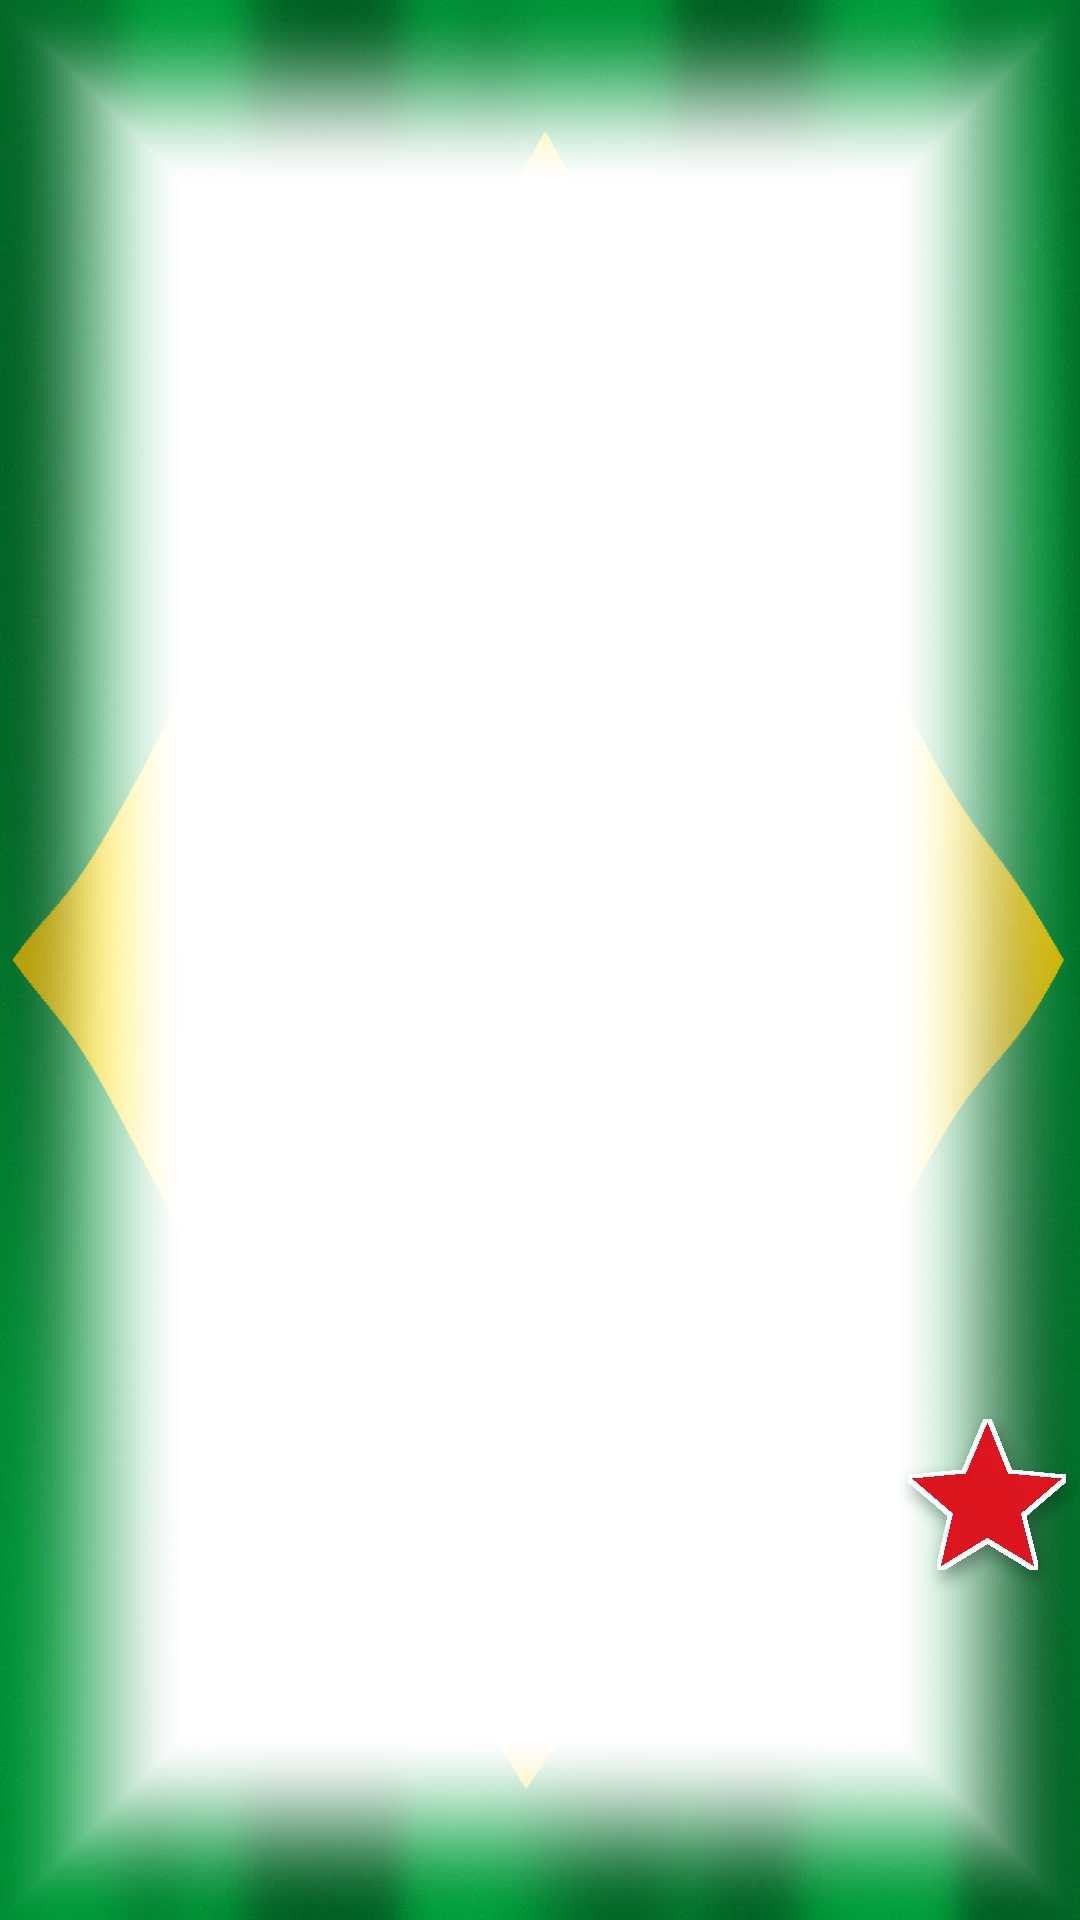
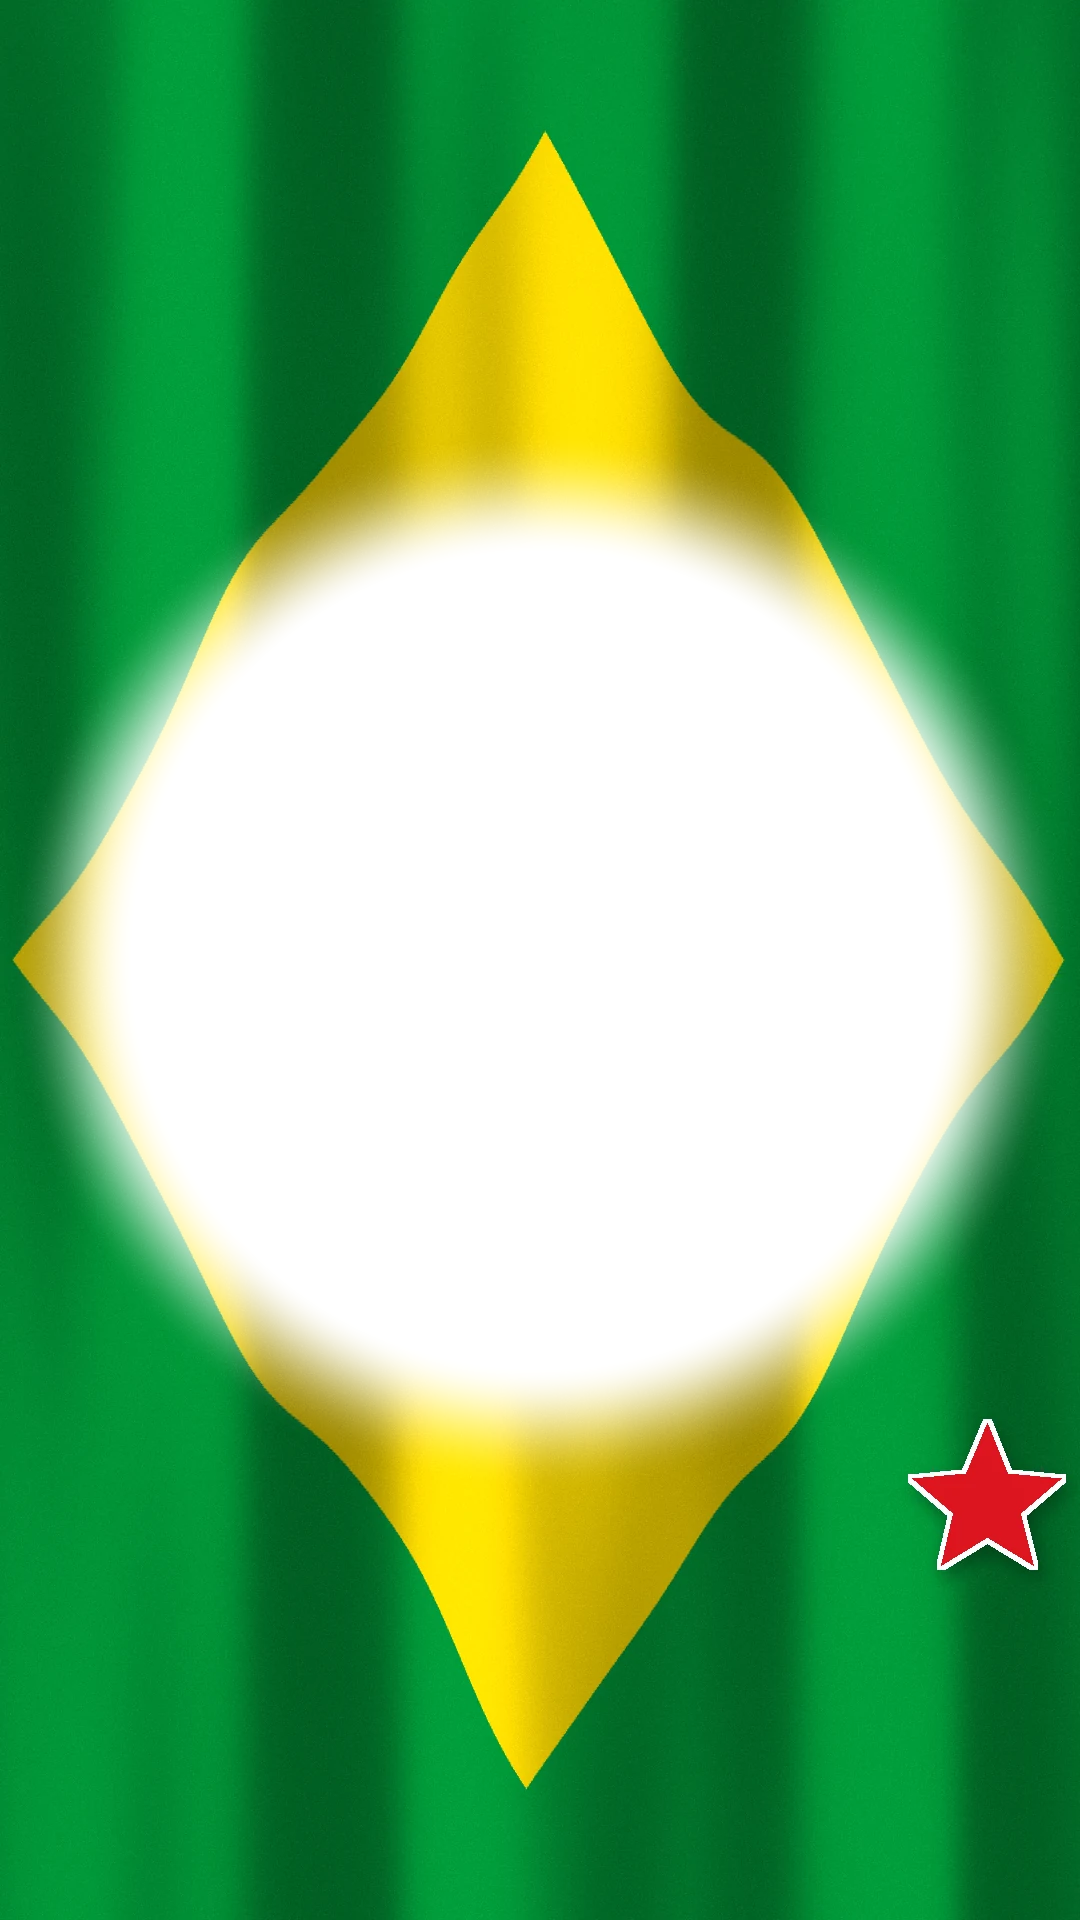
Espaço da foto circular no post e story

diff --git a/index.html b/index.html
@@ -201,7 +201,7 @@ footer a { color: var(--red); }
     if (!frames[k]) {
       const im = new Image();
       im.onload = draw;
-      im.src = "frames/" + k + ".webp?v=18";
+      im.src = "frames/" + k + ".webp?v=19";
       frames[k] = im;
     }
     return frames[k];
